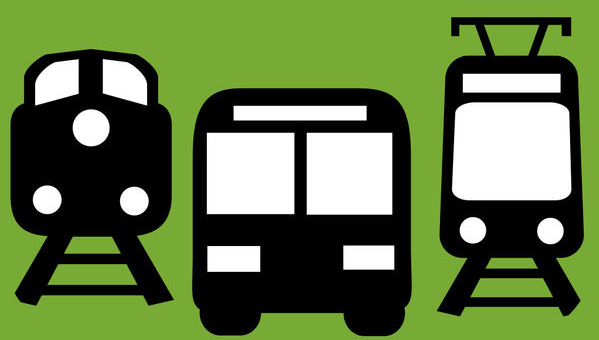
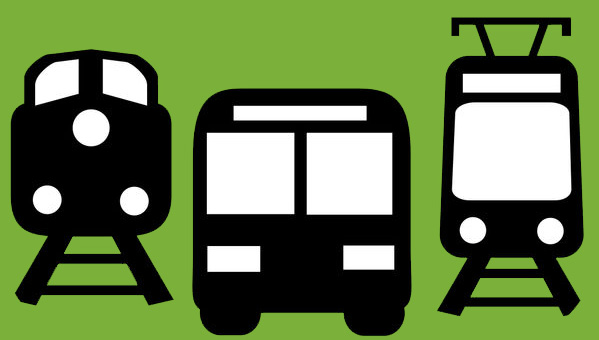
added sound transit's actual brand guidlines and modified some colors in css to rectify color discrepencies

diff --git a/css/style.css b/css/style.css
@@ -6,25 +6,25 @@ body {
   box-sizing: border-box;
 }
 header div {
-  background-color: #78ab35;
-  height: 300px;
+  background-color: #7bb13a;
+  height: 175px;
   width: 100%;
 }
 
 header img {
   float: left;
-  height: 300px;
+  height: auto;
   overflow: hidden;
-  width: auto;
+  width: 300px;
 }
 
-h1 {
+header div h1 {
   float: right;
-  font-family: 'Arial Black', sans-serif;
-  font-size: 5em;
-  margin: 20px;
-  overflow: hidden;
-  padding: 20px;
+  font-family: 'Arial', sans-serif;
+  font-size: 400%;
+  font-weight: bold;
+  line-height: 125px;
+  margin: 20px 10px;
   text-align: center;
 }
 
@@ -33,8 +33,10 @@ h1 {
 }
 
 h2 {
+  color: #2b376e;
   font-family: Arial, Helvetica, sans-serif;
   font-size: 1.5em;
+  font-weight: bold;
   margin-bottom: 40px;
   margin-top: 40px;
   text-align: center;
@@ -48,7 +50,6 @@ h2 {
   text-align: center;
 }
 
-
 h3 {
   font-family: Arial, Helvetica, sans-serif;
   font-size: 1.25em;
@@ -57,7 +58,7 @@ h3 {
 }
 
 section#imageClicked {
-  background-color: bisque;
+  background-color: #50bec8;
   border: 2px solid black;
   width: 960px;
   margin: auto;
@@ -77,7 +78,7 @@ div.col-3 div {
 }
 
 div.col-3 div img {
-  border: 2px solid black;
+  border: 4px solid  #3684af;
   box-sizing: border-box;
   display: inline-block;
   margin-top: 70px;
@@ -87,10 +88,10 @@ div.col-3 div img {
 }
 
 .thumbnail:hover {
-  -webkit-box-shadow: 0px 0px 87px 5px rgba(120,171,53,1);
-  -moz-box-shadow: 0px 0px 87px 5px rgba(120,171,53,1);
-  box-shadow: 0px 0px 87px 5px rgba(120,171,53,1);
-  border: 8px solid white;
+  -webkit-box-shadow: 0px 0px 87px 10px  #d85f2e;
+  -moz-box-shadow: 0px 0px 87px 10px  #d85f2e;
+  box-shadow: 0px 0px 87px 10px  #d85f2e;
+  border: 8px solid #d85f2e;
   height: 175px;
   width: auto;
 }

diff --git a/index.html b/index.html
@@ -12,8 +12,7 @@
     <header>
       <div>
         <img src="img/sounderImageSmall.jpg" alt="Bus Mall Logo" title="Bus Mall Logo">
-        <h1><span>Bus Mall <br>
-          Focus Group</span></h1>
+        <h1><span>Bus Mall Focus Group</span></h1>
       </div>
     </header>
 
@@ -59,13 +58,11 @@
         </div>
       </section>
 
-
     </main>
 
     <footer>
       <div>
         <img src="img/rideTheWaveFull.jpg" alt="Ride the Wave" title="Ride the Wave Logo">
-        <!-- <img src="img/rideTheWave.jpg" alt="Ride the Wave" title="Ride the Wave Logo"> -->
       </div>
     </footer>
 

diff --git a/README.md b/README.md
@@ -4,10 +4,11 @@
 Bus Mall will track  20 different objects to see their popularity with a focus group.  The plan is to implement the most popular items into a magazine that will be available to Puget Sound riders.
 
 ## Getting Started
-Used the .eslintrc.json and the .gitignore from the class repo
-Used the Meyer's css reset
-Color palette for the charts are from http://colrd.com/palette/18823/ and http://colrd.com/palette/18841/
-Box shadow help by https://www.cssmatic.com/box-shadow
+* Used the .eslintrc.json and the .gitignore from the class repo
+* Used the Meyer's css reset
+* Color palette for the charts are from http://colrd.com/palette/18823/ and http://colrd.com/palette/18841/
+* Box shadow help by https://www.cssmatic.com/box-shadow
+* Branding Guide for Sound Transit is found at https://www.soundtransit.org/st-brand-graphic-elements
 
 ## Prerequisites
 Used Chart.js Library for the bar graph, http://www.chartjs.org/docs/latest/
